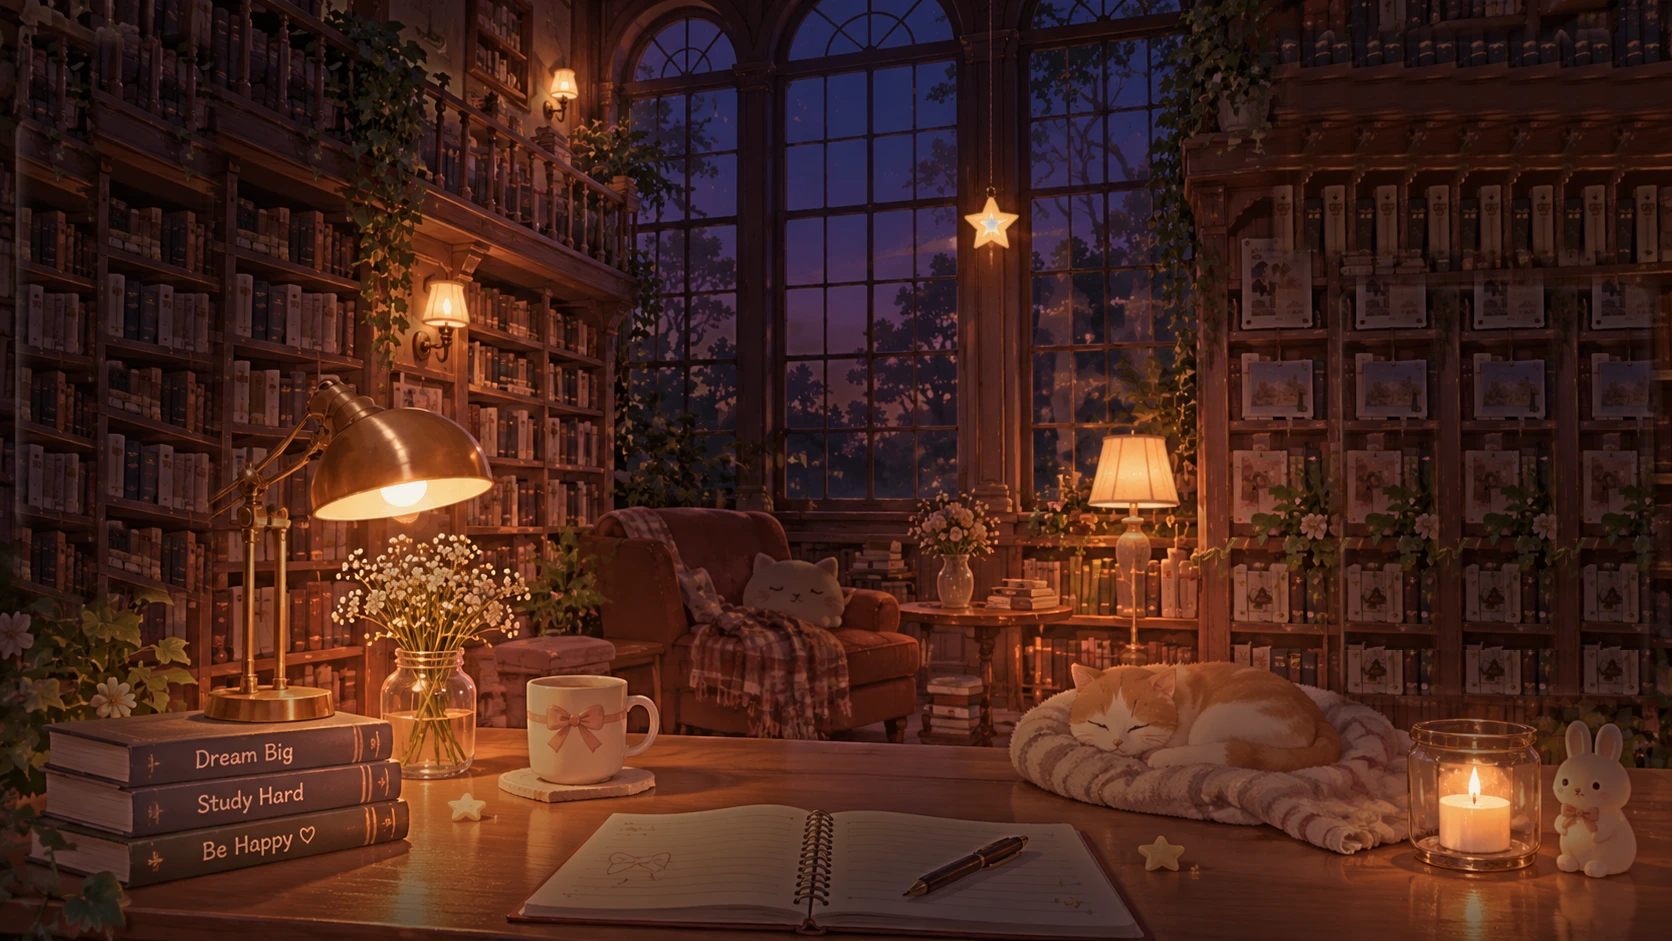
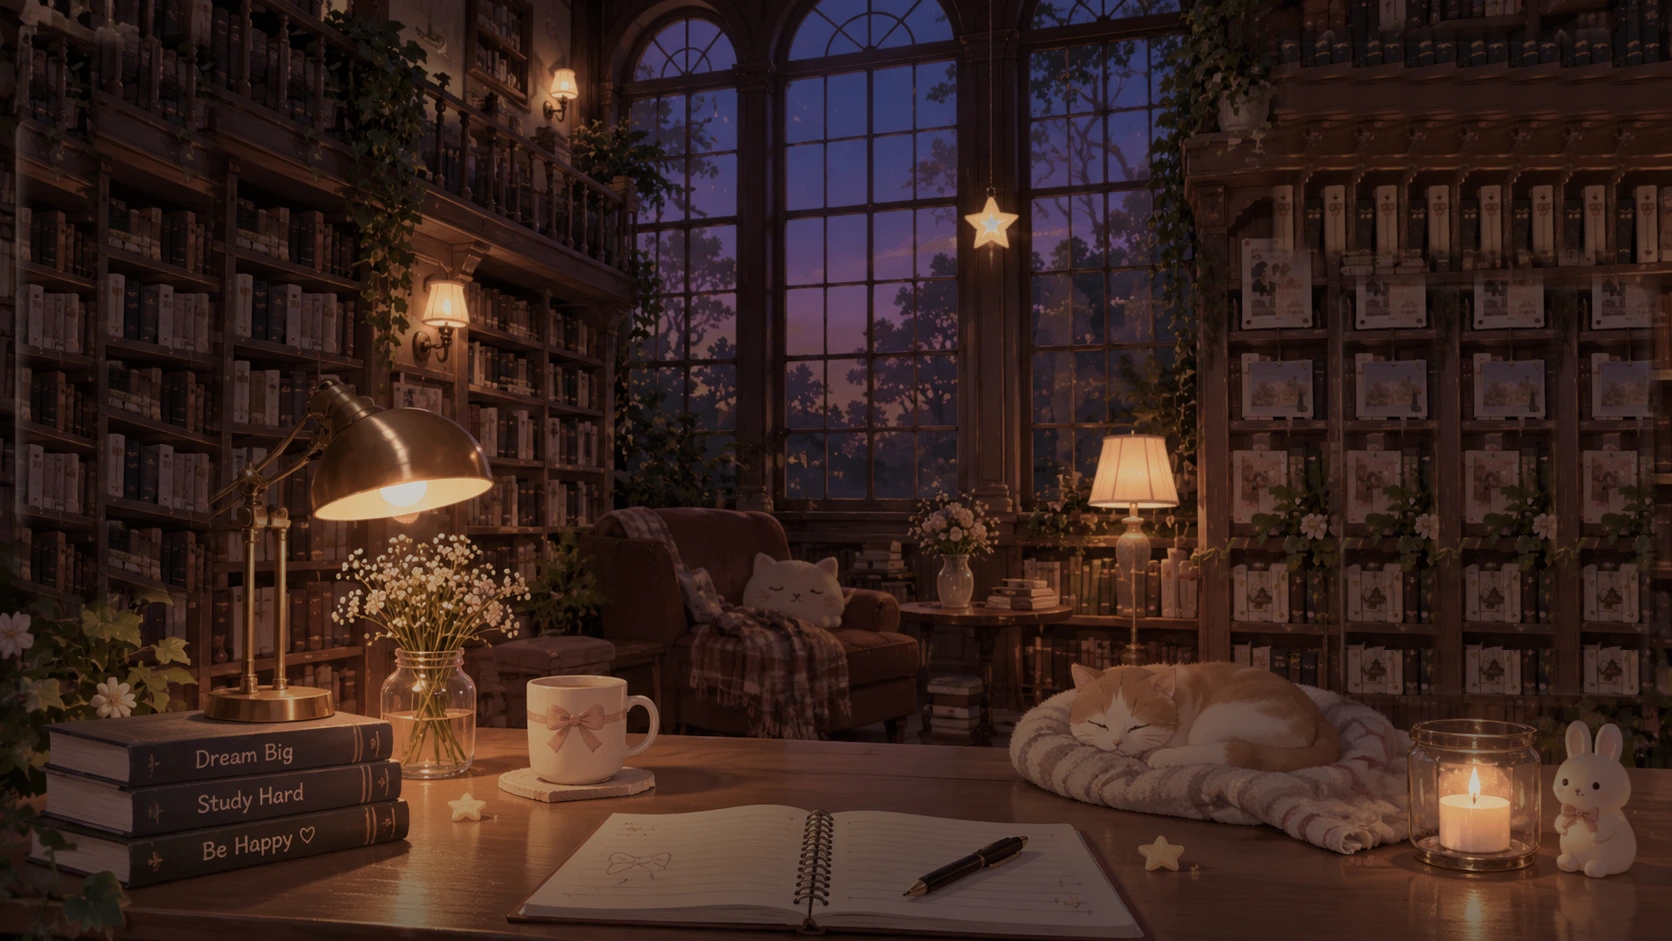
fix: natural exposure instead of the processed  look

diff --git a/src/style.css b/src/style.css
@@ -392,10 +392,10 @@ body { background: #3A2318; }
 .glow-candle { animation: candleFlicker 2.8s infinite; }
 .glow-star { animation: glowBreathe 3.4s ease-in-out infinite; }
 @keyframes glowBreathe { 50% { opacity: calc(var(--g) * .8); } }
-.painted[data-tod="morning"] .glow { --g: .45; }
-.painted[data-tod="day"] .glow { --g: .2; }
-.painted[data-tod="golden"] .glow { --g: .8; }
-.painted[data-tod="night"] .glow { --g: 1; }
+.painted[data-tod="morning"] .glow { --g: .2; }
+.painted[data-tod="day"] .glow { --g: .08; }
+.painted[data-tod="golden"] .glow { --g: .4; }
+.painted[data-tod="night"] .glow { --g: .6; }
 @keyframes candleFlicker { 0%, 100% { opacity: var(--g); transform: scale(1); } 12% { opacity: calc(var(--g) * .82); transform: scale(.97); } 26% { opacity: calc(var(--g) * .95); } 41% { opacity: calc(var(--g) * .76); transform: scale(1.03); } 58% { opacity: calc(var(--g) * .98); } 73% { opacity: calc(var(--g) * .85); transform: scale(.98); } }
 .lamp-shade { position: absolute; left: 0; top: 280px; width: 1060px; height: 661px; pointer-events: none; opacity: 0; transition: opacity .6s ease; mix-blend-mode: multiply; background: radial-gradient(60% 55% at 38% 40%, rgba(40,22,40,.5), rgba(40,22,40,.22) 60%, transparent 85%); }
 .lamp-off .glow-lamp { opacity: 0; animation: none; }
